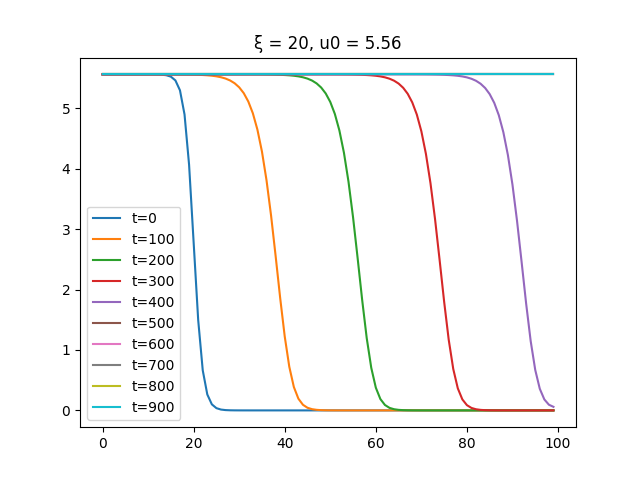
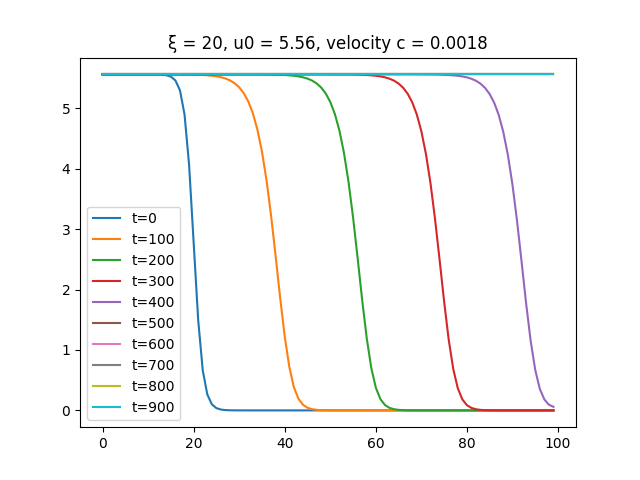
c fixad

Changed region(s): [[0.3125, 0.0625, 0.625, 0.125], [0.6562, 0.0625, 0.7812, 0.125], [0.25, 0.0625, 0.2812, 0.0938]]

diff --git a/Second homework/Exercise 1/main.py b/Second homework/Exercise 1/main.py
@@ -1,19 +1,33 @@
 import numpy as np
 import matplotlib.pyplot as plt
 
+
+def plot_wave(u, num_plots, t_max, dt):
+    fig, ax = plt.subplots()
+    for t in range(num_plots):
+        ax.plot(u[int(t*(t_max/(dt*num_plots)))][:], label=f't={int(t*(t_max/num_plots))}')
+    plt.title(f'\u03BE = {psi_0}, u0 = {u0:.2f}, velocity c = {(index2 - index1) / int((t_max / (dt * num_plots)))}')
+    plt.legend()
+
+
+
+def plot_wave_phase(u, num_plots, t_max, dt):
+    fig2, ax2 = plt.subplots(nrows=2)
+    ax2[0].plot(u[int(2*(t_max / (dt * num_plots)))][:], label=f't={int(2*(t_max / num_plots))}')
+
+
 if __name__ == '__main__':
     num_plots = 10
     L = 100
     rho = 0.5
     q = 8
-    psi_0 = 50
+    psi_0 = 20
     dt = 0.01
     t_max = 1000
     u0 = (q-1)/2 + np.sqrt(((q-1)/2)**2-q/rho+q)
-    u0 = 3*u0
     u = [[0 for i in range(L)] for j in range(int(t_max/dt))]
-    #u[0][:] = [u0/(1+np.exp(i-psi_0)) for i in range(L)] # Exercise a-b
-    u[0][:] = [u0 / np.exp((i - psi_0)**2) for i in range(L)] # Exercise c
+    u[0][:] = [u0/(1+np.exp(i-psi_0)) for i in range(L)] # Exercise a-b
+    #u[0][:] = [u0 / np.exp((i - psi_0)**2) for i in range(L)] # Exercise c
 
     for i in range(int(t_max/dt)-1):
         for j in range(L):
@@ -24,10 +38,11 @@ if __name__ == '__main__':
             else:
                 u[i+1][j] = (rho*u[i][j]*(1-u[i][j]/q)-u[i][j]/(1+u[i][j]) + u[i][j-1]+u[i][j+1]-2*u[i][j])*dt+u[i][j]
 
-    for t in range(num_plots):
-        plt.plot(u[int(t*(t_max/(dt*num_plots)))][:], label=f't={int(t*(t_max/num_plots))}')
-
-    plt.title(f'\u03BE = {psi_0}, u0 = {u0:.2f}')
-    plt.legend()
+    u_rounded1 = [round(num, 1) for num in u[int((t_max/(dt*num_plots)))][:]]
+    u_rounded2 = [round(num, 1) for num in u[2*int((t_max / (dt * num_plots)))][:]]
+    index1 = u_rounded1.index(3.8)
+    index2 = u_rounded2.index(3.8)
+    print(f'velocity c = {(index2-index1)/int((t_max/(dt*num_plots)))}')
+    plot_wave(u, num_plots, t_max, dt)
+    plot_wave_phase(u, num_plots, t_max, dt)
     plt.show()
-
